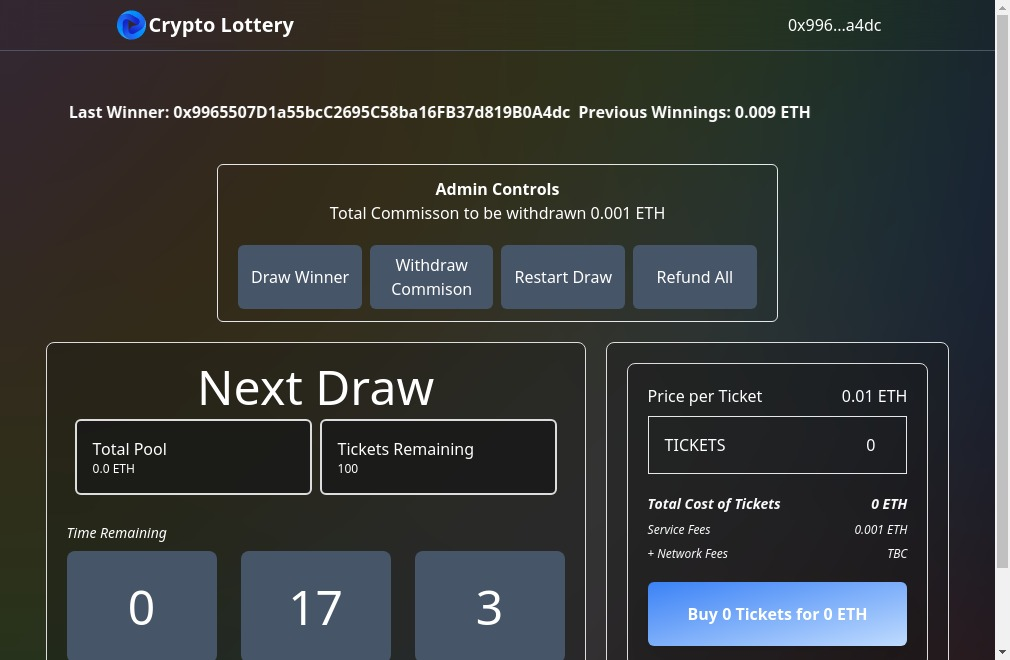
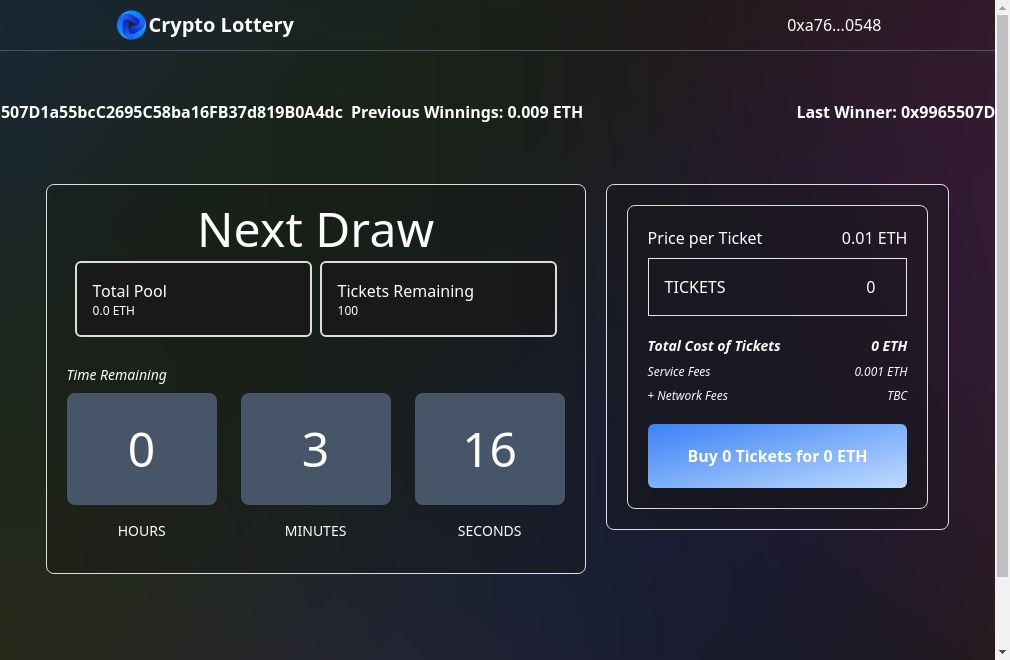
Additional screenshot

diff --git a/README.md b/README.md
@@ -4,6 +4,8 @@
 
 ![Lottery](./public/images/crypto-lottery.png)
 
+![Lottery Admin](./public/images/crypto-lottery-admin.png)
+
 Created using:
 
 - [Next.js](https://nextjs.org/)
